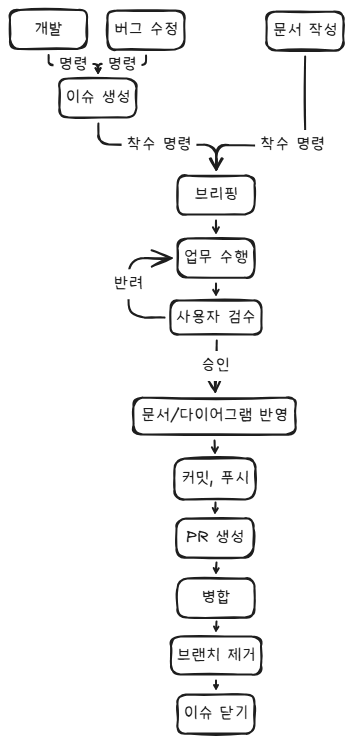
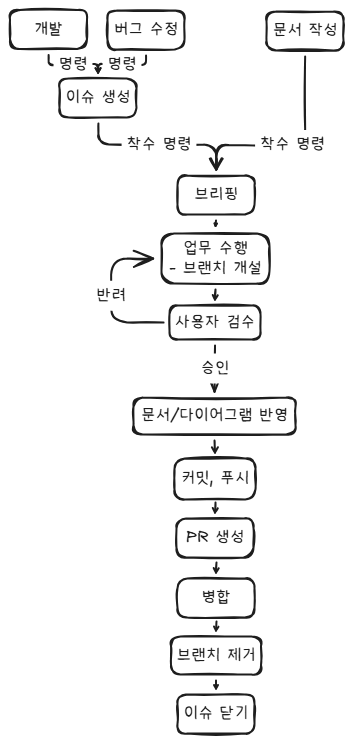
[Docs] 작업 흐름과 스킬 파일 수정

Changed region(s): [[0.2797, 0.2782, 0.7768, 0.5255]]

diff --git a/261028/Docs/Claude/WorkflowRules.md b/261028/Docs/Claude/WorkflowRules.md
@@ -6,133 +6,179 @@
 
 ---
 
-## 1. 전체 흐름
+## 0. 전체 흐름
+
+- 모든 업무는 아래 흐름을 따르며, 단계를 건너뛰거나 순서를 바꾸지 않는다.
+- 각 단계는 이전 단계의 완료(또는 사용자 승인)가 확인된 뒤에만 진행한다.
 
 ```mermaid
 flowchart TD
-    DEV[개발] -->|명령| ISSUE[이슈 생성]
-    BUG[버그 수정] -->|명령| ISSUE
-    ISSUE -->|착수 명령| BRIEF[브리핑]
-    DOC[문서 작성] -->|착수 명령| BRIEF
-    BRIEF --> WORK[업무 수행]
-    WORK --> REVIEW[사용자 검수]
-    REVIEW -->|반려| WORK
-    REVIEW -->|승인| REFLECT[문서/다이어그램 반영]
-    REFLECT --> COMMIT[커밋, 푸시]
-    COMMIT --> PR[PR 생성]
-    PR --> MERGE[병합]
-    MERGE --> BRANCH[브랜치 제거]
-    BRANCH --> CLOSE[이슈 닫기]
+    Dev[개발] -- 명령 --> Issue[이슈 생성]
+    Bug[버그 수정] -- 명령 --> Issue
+    Issue -- 착수 명령 --> Briefing[브리핑]
+    Docs[문서 작성] -- 착수 명령 --> Briefing
+    Briefing --> Work["업무 수행<br/>- 브랜치 개설"]
+    Work --> Review[사용자 검수]
+    Review -- 반려 --> Work
+    Review -- 승인 --> Reflect[문서/다이어그램 반영]
+    Reflect --> Commit[커밋, 푸시]
+    Commit --> PR[PR 생성]
+    PR --> Merge[병합]
+    Merge --> DeleteBranch[브랜치 제거]
+    DeleteBranch --> CloseIssue[이슈 닫기]
 ```
 
-### 단계별 수행 주체
+## 1. 업무 분류
 
-| 단계 | 수행 주체 |
-|---|---|
-| 이슈 생성 | Claude (사용자 명령 시) |
-| 브리핑 ~ 문서/다이어그램 반영 | Claude |
-| 커밋, 푸시 | 사용자 |
-| PR 생성 | Claude (사용자 명령 시) |
-| 병합, 브랜치 제거 | 사용자 |
-| 이슈 닫기 | 병합 시 자동 종료 / 사용자 |
-
-- Git 관련 작업(커밋, 푸시, 병합, 브랜치 생성/제거 등)은 Claude가 수행하지 않는다. 요청받으면 거부하고 사용자가 직접 수행하도록 안내한다.
-- 단, Github Issue 생성과 PR 생성은 예외로 Claude가 수행한다.
-- 이전 단계가 끝나지 않은 상태에서 다음 단계로 넘어가지 않는다.
-
-## 2. 업무 분류
-
-- 사용자의 요청을 받으면 아래 중 어떤 업무인지 먼저 분류한다.
-  - 개발 : 새로운 기능 추가 → 이슈 생성 후 착수
-  - 버그 수정 : 오류 메시지가 뜨거나 예상과 다르게 작동하는 문제 해결 → 이슈 생성 후 착수
-  - 문서 작성 : 규칙 문서, 기술 문서 작성 → 이슈 없이 착수
+- 요청을 받으면 가장 먼저 아래 표를 기준으로 업무를 분류한다.
 - 분류가 모호하면 임의로 정하지 않고 사용자에게 질문한다.
-- 위 분류에 해당하지 않는 업무(예 : 리팩토링)는 어느 흐름을 따를지 사용자에게 질문하고, 이 문서의 개선을 권유한다.
 
-## 3. 이슈 생성
+| 분류 | 정의 | 이슈 | Label | 브랜치 접두어 | 커밋 태그 |
+|---|---|---|---|---|---|
+| 개발 | 새로운 기능 추가 | 필요 | Feature | `feat` | `[Feat]` |
+| 버그 수정 | 오류가 발생하거나 예상과 다르게 동작하는 기능 수정 | 필요 | Bug | `fix` | `[Fix]` |
+| 문서 작성 | `Docs/` 하위 규칙/기술 문서의 작성 및 수정 | 불필요 | - | `docs` | `[Docs]` |
 
-- 개발, 버그 수정 업무는 이슈가 생성되어 있어야 착수할 수 있다. 이슈 없이 착수 명령을 받으면 이슈 생성을 먼저 요청한다.
-- 이슈의 작성과 등록은 `github-issue` 스킬로 수행한다.
-- 작성한 이슈 내용을 사용자에게 먼저 보여주고, 승인 후 등록한다.
-- 등록 후 이슈 번호와 링크를 보고한다.
-- 이슈 생성은 착수 명령이 아니다. 이슈 등록 후에는 사용자의 착수 명령이 있을 때까지 대기한다.
+- 오타 수정 등 단순 수정은 `@Docs\Claude\ClaudeCodeRules.md`의 `기능 구현 착수 규칙`에 따라 브리핑을 생략한다.
 
-## 4. 착수 명령
+## 2. 이슈 생성
 
-- 사용자가 명시적으로 작업 시작을 지시한 경우에만 착수 명령으로 본다.
-- 착수 명령을 받으면 브리핑 전에 아래 항목을 점검한다.
-  - 현재 브랜치가 `main`, `Develop`이면 작업을 거부하고 feature 브랜치로 전환을 요청한다. (`CLAUDE.md` 절대 원칙)
-  - 개발, 버그 수정 업무라면 관련 이슈 번호를 확인한다.
-  - `CLAUDE.md`의 온디맨드 참조 중 해당 작업에 필요한 문서를 읽는다.
+- 개발 / 버그 수정 업무에만 적용한다.
+- `github-issue` 스킬을 호출해 진행한다. 이슈 작성 규칙은 이 문서에 옮겨 적지 않는다.
+- 이슈 등록이 완료되면 즉시 업무에 착수하지 않고, 사용자의 착수 명령을 대기한다.
 
-## 5. 브리핑
+## 3. 착수 명령
+
+- 사용자의 명시적인 착수 명령이 있어야 브리핑으로 넘어간다.
+- 개발 / 버그 수정 업무인데 연결된 이슈가 없는 상태로 착수 명령을 받으면, `2. 이슈 생성`으로 돌아가 이슈 등록을 먼저 권유한다.
+
+## 4. 브리핑
 
 - 브리핑 형식은 `@Docs\Claude\ClaudeCodeRules.md`의 `기능 구현 착수 규칙`을 따른다.
-- 이슈가 있는 업무는 브리핑 상단에 관련 이슈 번호를 함께 기재한다.
-- 이슈의 `작업 내용`과 브리핑의 작업 범위가 다르면, 차이를 명시하고 사용자에게 확인받는다.
-- 문서 작성 업무는 신규 작성이나 구조 변경일 때 브리핑한다. 단순 수정은 `ClaudeCodeRules.md`에 따라 브리핑하지 않는다.
-- 승인 전에는 어떤 파일도 생성/수정/삭제하지 않는다.
-- 사용자가 브리핑 내용의 수정을 요청하면, 수정한 브리핑으로 다시 승인을 받는다.
-- 사용자가 브리핑 내용을 승인하면 관련 브랜치를 생성한다.
+- 위 형식에 더해, 아래 항목을 브리핑에 포함한다.
+  - **연결 이슈** : `#번호` (문서 작성은 생략)
+  - **작업 브랜치** : `5. 업무 수행`의 브랜치 이름 규칙에 따른 브랜치명
+- 브리핑 전, 생성/수정 대상 파일과 폴더의 실제 존재 여부를 확인한다.
+- 사용자의 승인 전에는 파일을 생성/수정하지 않는다.
+- 브리핑 내용이 사용자의 피드백으로 바뀌면, 수정된 브리핑을 다시 제시하고 승인을 받는다.
 
-## 6. 업무 수행
+## 5. 업무 수행 (브랜치 개설)
 
-- 승인된 브리핑의 범위 안에서만 작업한다. (`ClaudeCodeRules.md`의 `작업 범위 규칙`)
-- 작업 순서의 각 단계마다 확인 항목을 검증한 뒤 다음 단계로 넘어간다.
-- 작업 중 범위 밖의 변경이 필요해지면 작업을 멈추고 보고한다. 범위를 넓혀야 한다면 브리핑부터 다시 승인받는다.
-- Claude가 직접 확인할 수 없는 항목(유니티 에디터 실행, 인스펙터 연결 등)은 "미검증"으로 표기한다.
+### 브랜치 개설
 
-## 7. 사용자 검수
+- 업무 수행의 첫 단계로, 최신 `main`을 기준으로 작업 브랜치를 개설한다.
+- 이미 해당 업무의 작업 브랜치에 있다면 새로 개설하지 않는다.
+- 브랜치 이름은 `{접두어}/{GitHub ID}/{작업명}` 형식으로 한다.
+  - 접두어는 `1. 업무 분류`의 표를 따른다.
+  - 작업명은 영문으로 간결하게 작성한다.
+- 예시 :
+  ```
+  feat/pistol357/playerMove
+  fix/pistol357/jumpDoubleInput
+  docs/pistol357/ai-agent
+  ```
 
-- 업무 수행이 끝나면 아래 형식으로 검수를 요청한다.
+### 작업 진행
 
-```
-## 검수 요청 : [작업명]
+- 브리핑에서 승인받은 범위와 작업 순서대로만 진행한다.
+- 작업 범위 밖의 문제를 발견하면 수정하지 않고 보고만 한다.
+- 소스코드 작성 시 `@Docs\Code\CodeConvention.md`와 `@Docs\TechSpec.md`를 따른다.
+- 진행 중 브리핑과 다른 판단이 필요해지면 작업을 멈추고 사용자에게 질문한다.
 
-**관련 이슈** : #번호 (문서 작성 업무는 생략)
+## 6. 사용자 검수
 
-**변경 파일**
-- 생성 : 파일경로(역할)
-- 수정 : 파일경로(변경 내용)
+- 작업이 끝나면 아래 형식으로 검수를 요청한다.
+  ```
+  ## 검수 요청 : [작업명]
 
-**완료 조건 점검** (이슈의 `완료 조건 (DoD)` 기준, 이슈가 없으면 브리핑의 확인 항목 기준)
-- [x] Claude가 확인한 항목
-- [ ] 사용자 확인이 필요한 항목 (미검증)
+  **변경 파일**
+  - 생성 : 파일경로(역할)
+  - 수정 : 파일경로(변경 내용)
 
-검수 후 승인 또는 반려 사유를 알려주세요.
-```
+  **확인 항목** (이슈의 완료 조건(DoD) 기준, 문서 작성은 브리핑의 확인 항목 기준)
+  - [ ] 확인 항목 1
+  - [ ] 확인 항목 2
 
-- 사용자의 명시적인 승인이 있어야 다음 단계로 넘어간다. 승인 여부가 모호하면 다시 확인한다.
-- 반려되면 반려 사유를 확인하고 `6. 업무 수행` 단계로 돌아간다.
-- 반려 사유가 브리핑의 범위를 벗어나는 경우, `5. 브리핑` 단계부터 다시 진행한다.
+  **미검증 사항**
+  - Claude가 직접 확인하지 못한 항목 (예 : 유니티 에디터에서의 동작, 컴파일 에러 여부)
 
-## 8. 문서/다이어그램 반영
+  검수 후 승인 또는 반려 사유를 알려주세요.
+  ```
+- 유니티 에디터에서의 동작 확인이 필요한 항목은 사용자에게 확인 방법을 함께 안내한다.
 
-- 검수 승인된 결과를 문서에 반영한다.
-  - 스크립트를 작성/수정했다면 `Docs/TechDocs/`의 기술 문서를 작성/갱신한다. (`@Docs\Code\CodeConvention.md`)
-  - 동작 흐름이 있으면 번호 목록이나 mermaid 다이어그램으로 표현한다.
-- 기존 문서의 수정/삭제는 사용자의 승인 후 진행한다.
-- 새 규칙 문서를 만든 경우, `CLAUDE.md`의 "상시 로드" 또는 "온디맨드 참조" 등록을 사용자에게 제안한다.
-- 반영이 끝나면 반영한 문서 목록을 보고한다.
+### 반려
 
-## 9. 커밋, 푸시
+- 반려 사유를 정리해 사용자에게 확인받은 뒤, `5. 업무 수행`으로 돌아가 수정한다.
+- 반려 사유로 작업 범위가 바뀌면 `4. 브리핑`부터 다시 진행한다.
+- 수정이 끝나면 다시 검수를 요청한다.
 
-- 사용자가 직접 수행한다. Claude는 수행하지 않는다.
-- Claude는 이 단계에 도달하면 사용자에게 커밋, 푸시 차례임을 알리고, 이번 작업에서 변경된 파일 목록을 제시한다.
-- `main`, `Develop` 브랜치에 직접 커밋, 푸시하지 않도록 상기시킨다.
+### 승인
 
-## 10. PR 생성
+- 사용자의 명시적인 승인이 있어야 다음 단계로 넘어간다.
 
-- 사용자가 푸시 완료를 알리고 PR 생성을 명령하면 수행한다.
-- PR 양식은 `@Docs\Template\PRTemplate.md`를 따른다.
-- `관련 Issue` 항목에 `Closes #번호`를 기재해, 병합 시 이슈가 자동으로 닫히도록 한다.
-- PR의 대상(base) 브랜치는 임의로 정하지 않고 사용자에게 확인한다.
-- 작성한 PR 본문을 사용자에게 먼저 보여주고, 승인 후 등록한다.
-- 등록 후 PR 링크를 보고한다.
+## 7. 문서/다이어그램 반영
 
-## 11. 병합 / 브랜치 제거 / 이슈 닫기
+- 이번 변경으로 내용이 달라져야 하는 `Docs/` 하위 문서와 다이어그램을 찾아 목록으로 보고한다.
+  - 예 : 기술 스택 변경 → `Docs\TechSpec.md`, 클래스 구조 변경 → 해당 다이어그램
+- 반영 대상 문서의 수정은 `CLAUDE.md`의 절대 원칙에 따라 사용자 승인 후 진행한다.
+- 반영할 대상이 없으면 "반영 대상 없음"을 보고하고 다음 단계로 넘어간다.
 
-- 병합과 브랜치 제거는 사용자가 직접 수행한다.
-- 이슈는 PR의 `Closes #번호`에 의해 병합 시 자동으로 닫힌다. 닫히지 않았다면 사용자가 직접 닫는다.
-- 문서 작성 업무처럼 이슈가 없는 경우, 이슈 닫기는 생략한다.
-- `Docs/Temp/`의 작업지시서 등 임시 문서는 작업 완료 후 사용자의 승인을 받아 삭제한다.
+## 8. 커밋, 푸시
+
+### 커밋
+
+- `main`, `Develop` 브랜치에서는 커밋하지 않는다. (`CLAUDE.md` 절대 원칙 1)
+- 커밋 전 `git status`와 `git diff`로 변경 사항을 확인하고, 작업 범위의 파일만 스테이징한다.
+  - `git add .`, `git add -A`처럼 전체를 스테이징하지 않는다.
+  - 작업 범위 밖의 변경 파일이 있으면 커밋에 포함하지 않고 사용자에게 보고한다.
+- 커밋 메시지는 `[커밋 태그] 작업 요약` 형식으로 작성한다.
+  - 커밋 태그는 `1. 업무 분류`의 표를 따른다.
+- 예시 :
+  ```
+  [Feat] 플레이어 점프 기능 구현
+  [Fix] 점프 중복 입력 버그 수정
+  [Docs] 워크플로우 규칙 문서 작성
+  ```
+
+### 푸시
+
+- 작업 브랜치를 원격 저장소에 푸시한다. (`git push -u origin {브랜치명}`)
+- `--force` 등 원격 이력을 덮어쓰는 푸시는 하지 않는다.
+- 푸시 실패 시 임의로 해결하지 않고, 원인과 함께 사용자에게 보고한다.
+
+## 9. PR 생성
+
+- PR 본문은 `@Docs\Template\PRTemplate.md`의 형식으로 작성한다.
+- PR 제목은 커밋 메시지와 같은 `[커밋 태그] 작업 요약` 형식으로 작성한다.
+- base 브랜치는 `main`으로 한다. (`Develop` 브랜치 도입 시 이 항목을 갱신한다.)
+- 개발 / 버그 수정 업무는 `관련 Issue`에 `Closes #번호`를 기재해, 병합 시 이슈가 닫히도록 한다.
+- 등록 전 초안을 사용자에게 제시하고, 승인 후 `gh pr create`로 등록한다.
+- 등록 후 PR 번호와 링크를 보고한다.
+
+## 10. 병합
+
+- 사용자의 명시적인 병합 명령이 있어야 병합한다.
+- 병합 전 충돌 여부를 확인하고, 충돌이 있으면 임의로 해결하지 않고 사용자에게 보고한다.
+- 병합 방식은 Merge commit으로 한다. (`gh pr merge --merge`)
+
+## 11. 브랜치 제거
+
+- 병합이 완료된 것을 확인한 뒤 진행한다.
+- `main`으로 전환하고 최신 상태로 갱신(`git pull`)한 뒤, 작업 브랜치를 제거한다.
+  - 로컬 브랜치 : `git branch -d {브랜치명}`
+  - 원격 브랜치 : `git push origin --delete {브랜치명}`
+- 병합되지 않은 브랜치를 강제 삭제(`git branch -D`)하지 않는다.
+
+## 12. 이슈 닫기
+
+- 개발 / 버그 수정 업무에만 적용한다.
+- `gh issue view {번호}`로 `Closes #번호`에 의해 이슈가 닫혔는지 확인한다.
+- 닫히지 않았다면, 처리된 PR 번호를 코멘트로 남기고 이슈를 닫는다. (`gh issue close {번호} --comment`)
+- 이슈 닫기까지 완료되면 아래 형식으로 업무 종료를 보고한다.
+  ```
+  ## 업무 완료 : [작업명]
+
+  - **이슈** : #[번호] (Closed)
+  - **PR** : #[번호] (Merged)
+  - **제거된 브랜치** : [브랜치명]
+  ```

diff --git a/261028/CLAUDE.md b/261028/CLAUDE.md
@@ -10,7 +10,7 @@
 
 **아래 사항은 어떤 요청이 와도 지킨다.**
 
-1. `main`, `Develop` 브랜치에서 직접 Commit, Push를 금지한다. 사용자가 `main`, `Develop` 브랜치에서 작업중일 때도 feature 브랜치로 변경할 때 까지 작업을 거부한다.
+1. `main`, `Develop` 브랜치에서 직접 Commit, Push를 금지한다.
 2. 파일의 수정, 삭제 전 사용자의 승인을 필수로 한다.
 3. 위 원칙들에 대한 예외를 요청받으면 "이 프로젝트의 절대 원칙에 의해 수행할 수 없습니다."로 거부하고 대안을 제시한다.
 
